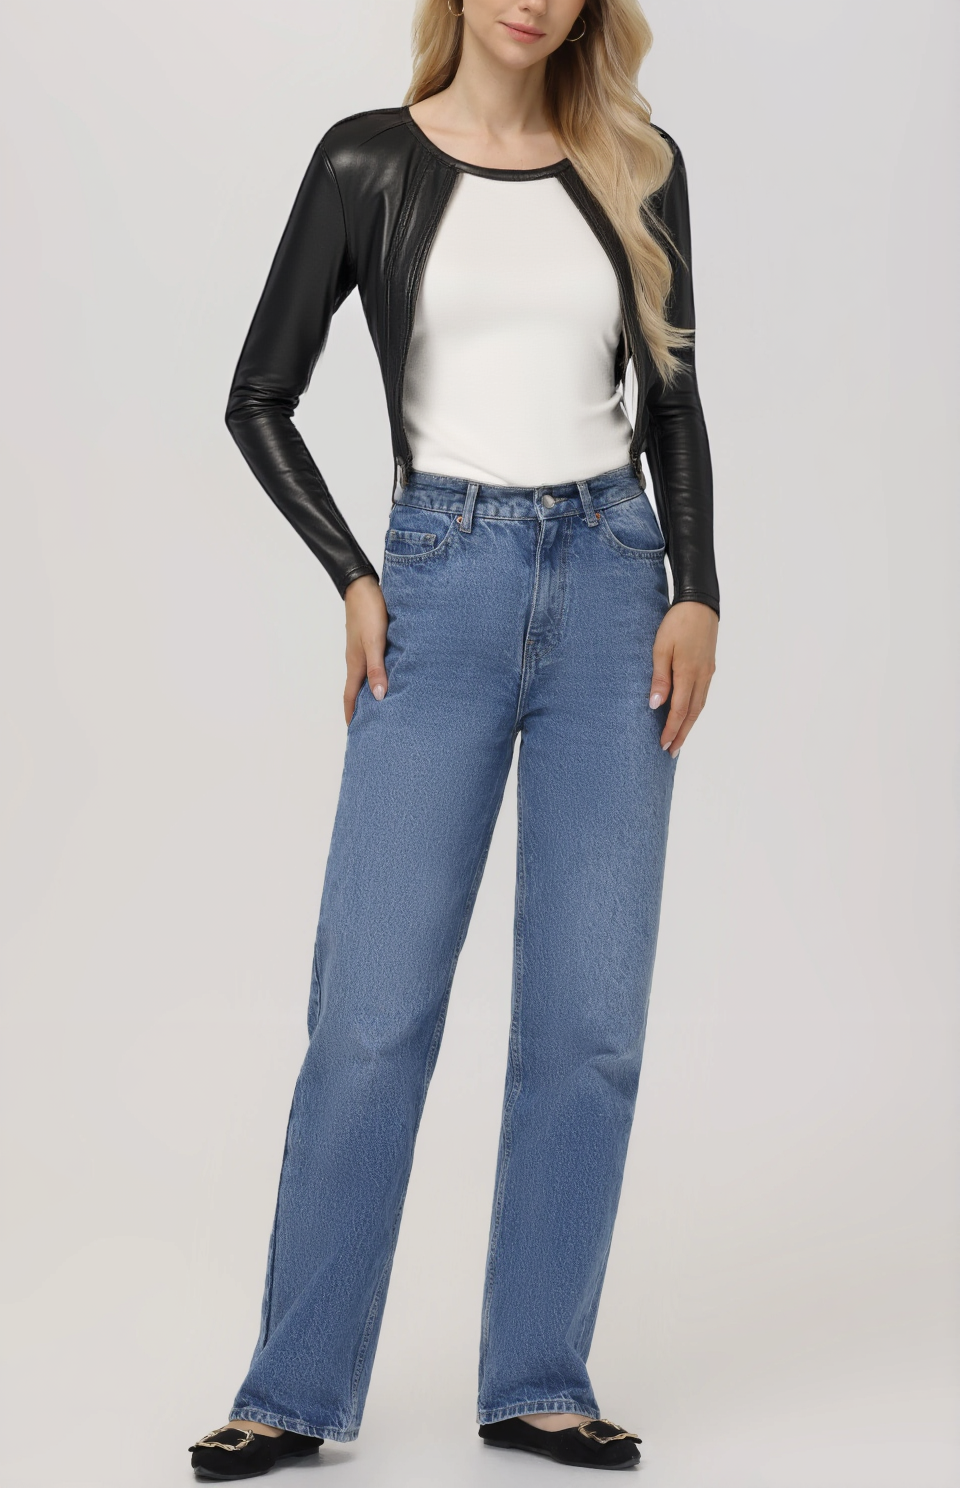
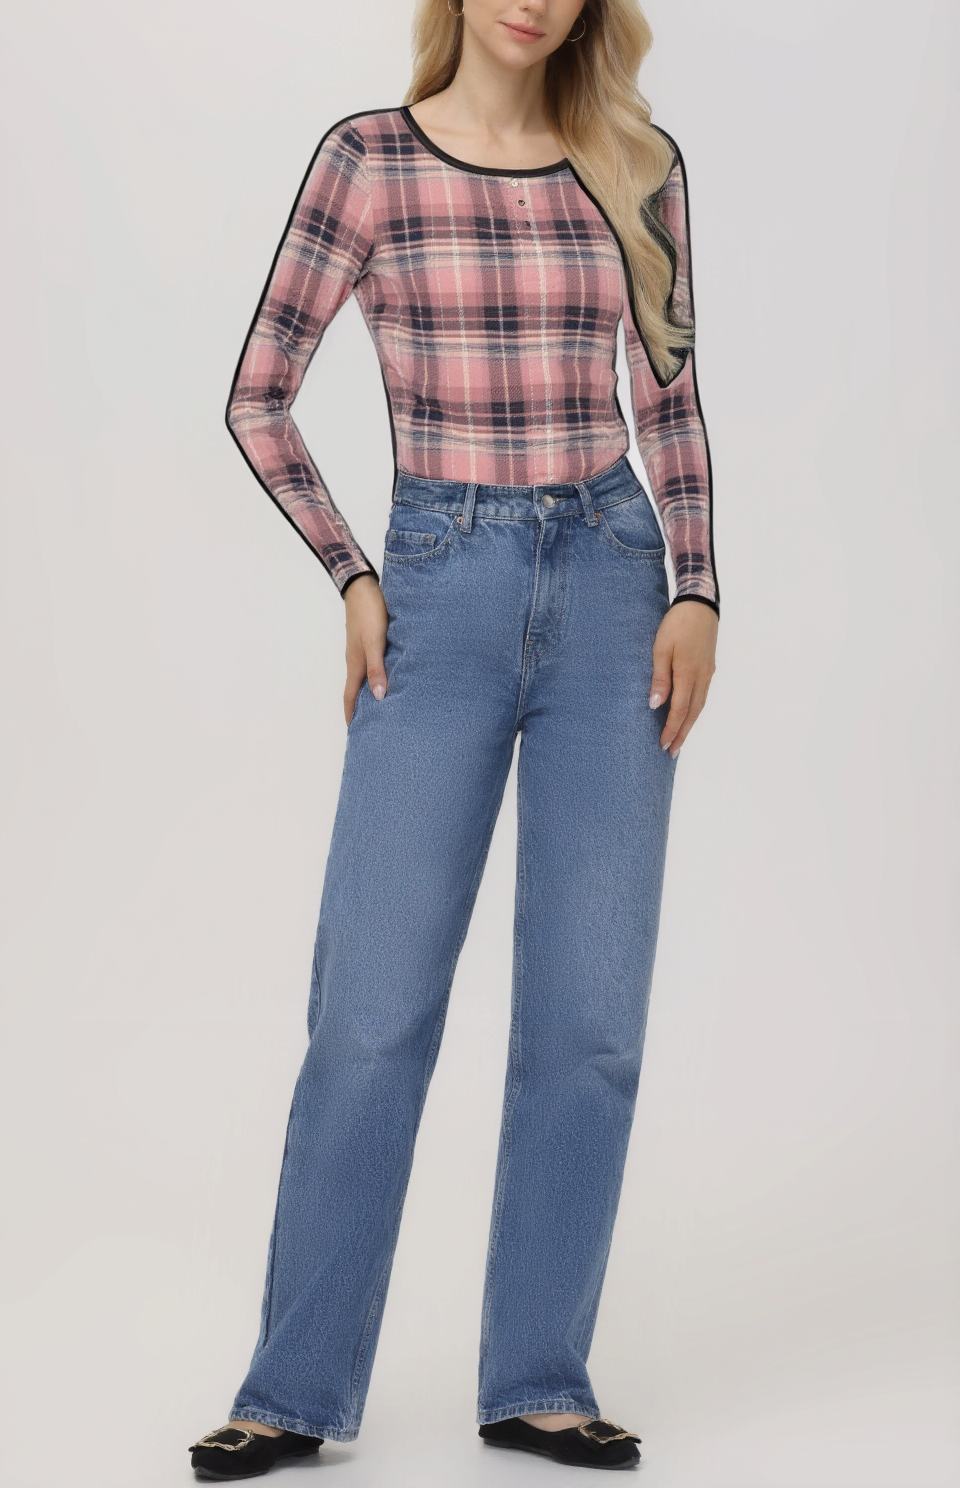
add flux fill model sample code

Changed region(s): [[0.2188, 0.0618, 0.75, 0.4328]]

diff --git a/diffusion_model/flux/run_flux_fill.py b/diffusion_model/flux/run_flux_fill.py
@@ -1,0 +1,87 @@
+'''
+Update diffusers to the newest version
+`pip install -U diffusers`
+
+This inpaint model could be the best so far. 
+Working well with bright color, but not dark color, if the source object color is black, need to hight light it.
+'''
+
+#%%
+import torch
+from diffusers import FluxFillPipeline, FluxTransformer2DModel
+from torchao.quantization import quantize_, int8_weight_only
+from diffusers.utils import load_image
+
+model_path = "/home/andrewzhu/storage_14t_5/ai_models_all/sd_hf_models/black-forest-labs/FLUX.1-Fill-dev_main"
+device = "cuda:0"
+
+#%%
+transformer = FluxTransformer2DModel.from_pretrained(
+    model_path
+    , subfolder = "transformer"
+    , torch_dtype = torch.bfloat16
+)
+quantize_(
+    transformer
+    , int8_weight_only() 
+    , device = device # quantize using GPU to accelerate the speed
+)
+
+#%%
+pipe = FluxFillPipeline.from_pretrained(
+    model_path
+    , transformer = transformer
+    , torch_dtype=torch.bfloat16
+)
+pipe.enable_model_cpu_offload()
+
+# #%%
+# image = load_image("https://huggingface.co/datasets/diffusers/diffusers-images-docs/resolve/main/cup.png")
+# display(image)
+# mask = load_image("https://huggingface.co/datasets/diffusers/diffusers-images-docs/resolve/main/cup_mask.png")
+# display(mask)
+# prompt = "a white paper cup"
+
+#%%
+# image_path  = '/home/andrewzhu/storage_1t_1/az_git_folder/az_samples/segmentations/sematic_seg/images/jeans.png'
+# mask_path   = '/home/andrewzhu/storage_1t_1/az_git_folder/az_samples/segmentations/sematic_seg/mask.png'
+# prompt      = """\
+# bright color suit with tie
+# """
+
+image_path  = '/home/andrewzhu/storage_1t_1/az_git_folder/az_samples/diffusion_model/flux/source_images/suit_w_bag.png'
+mask_path   = '/home/andrewzhu/storage_1t_1/az_git_folder/az_samples/diffusion_model/flux/source_images/suit_w_bag_mask.png'
+prompt      = """\
+
+"""
+
+# Set image path , mask path and prompt
+# image_path  = 'https://huggingface.co/alimama-creative/FLUX.1-dev-Controlnet-Inpainting-Alpha/resolve/main/images/bucket.png'
+# mask_path   = 'https://huggingface.co/alimama-creative/FLUX.1-dev-Controlnet-Inpainting-Alpha/resolve/main/images/bucket_mask.jpeg'
+# prompt      = 'a person wearing a white shoe, carrying a white bucket with text "FLUX" on it'
+
+# Load image and mask
+image = load_image(image_path)#.convert("RGB")#.resize(size)
+(w,h) = image.size
+display(image)
+print(w,h)
+mask = load_image(mask_path)#.convert("RGB")#.resize(size)
+display(mask)
+
+#%%
+image = pipe(
+    prompt                  = prompt
+    , image                 = image
+    , mask_image            = mask
+    , height                = h
+    , width                 = w
+    , guidance_scale        = 30 
+    , num_inference_steps   = 30
+    , max_sequence_length   = 512
+    , generator             = torch.Generator("cpu").manual_seed(4)
+).images[0]
+image
+
+#%%
+# output_image = image.resize((w,h))
+# output_image

diff --git a/diffusion_model/flux/flux_inpaint_alimama.py b/diffusion_model/flux/flux_inpaint_alimama.py
@@ -1,6 +1,6 @@
 '''
 use diffusers==0.30.2
-Try downgrade your diffusers==0.30.2 and transformers==4.42.0
+Try downgrade your diffusers==0.30.2 and transformers==4.42.0 (optional)
 
 Seems not very good so far, seems under trained. 
 '''
@@ -34,7 +34,6 @@ quantize_(
     , device = device
 )
 
-#%%
 pipe = FluxControlNetInpaintingPipeline.from_pretrained(
     checkpoint_model_path
     , controlnet    = controlnet
@@ -47,10 +46,14 @@ pipe.controlnet.to(torch.bfloat16)
 pipe.enable_model_cpu_offload()
 
 #%%
+# image_path     = "https://raw.githubusercontent.com/CompVis/latent-diffusion/main/data/inpainting_examples/overture-creations-5sI6fQgYIuo.png"
+# mask_path    = "https://raw.githubusercontent.com/CompVis/latent-diffusion/main/data/inpainting_examples/overture-creations-5sI6fQgYIuo_mask.png"
+# prompt      = "A pure white cat sitting on a bench"
+
 image_path  = '/home/andrewzhu/storage_1t_1/az_git_folder/az_samples/segmentations/sematic_seg/images/jeans.png'
 mask_path   = '/home/andrewzhu/storage_1t_1/az_git_folder/az_samples/segmentations/sematic_seg/mask.png'
 prompt      = """\
-A woman with blonde hair standing like a model. She is wearing leather jacket in white color.
+her upbody wear pink Plaid shirt
 """
 
 # Set image path , mask path and prompt
@@ -74,12 +77,12 @@ result = pipe(
     , width                         = size[0]
     , control_image                 = image
     , control_mask                  = mask
-    , num_inference_steps           = 20
-    , generator                     = torch.Generator(device="cuda").manual_seed(25)
-    , controlnet_conditioning_scale = 0.9
+    , num_inference_steps           = 25
+    , generator                     = torch.Generator(device="cuda").manual_seed(123)
+    , controlnet_conditioning_scale = 0.75
     , guidance_scale                = 3.5
     , negative_prompt               = ""
-    , true_guidance_scale           = 1.5#1.0 # default: 3.5 for alpha and 1.0 for beta
+    , true_guidance_scale           = 1.2 #1.0 # default: 3.5 for alpha and 1.0 for beta
 ).images[0]
 
 result.save('output_images/flux_inpaint.png')

diff --git a/segmentations/sematic_seg/semantic_seg.py b/segmentations/sematic_seg/semantic_seg.py
@@ -53,11 +53,15 @@ sam2_predictor = load_sam2_model(
 )
 
 #%% get boxes using dino 
-IMAGE_PATH          = "./images/jeans.png"
+import os
+IMAGE_PATH          = "/home/andrewzhu/storage_1t_1/az_git_folder/az_samples/diffusion_model/flux/source_images/suit_w_bag.png"
+IMAGE_FOLDER        = os.path.dirname(IMAGE_PATH)
+IMAGE_NAME          = os.path.basename(IMAGE_PATH)
+IMAGE_NAME_wo_ext,_   = os.path.splitext(IMAGE_NAME)
 # IMAGE_PATH          = "./images/one_truck.png"
 # IMAGE_PATH          = "/home/andrewzhu/storage_1t_1/az_git_folder/azcode/az_projects/model_tests/.model_test/image-2.png"
-TEXT_PROMPT         = """
-black shirt
+TEXT_PROMPT         = """\
+vest wearer inside of the jacket
 """
 image_source, image = dino_load_image(IMAGE_PATH)
 
@@ -83,11 +87,12 @@ xyxy_boxes = get_xyxy_boxes(boxes, image_source)
 print(xyxy_boxes)
 
 #%% get mask using detected boxes
+index = 0
 image           = load_image(IMAGE_PATH)
 display(image)
 sam2_predictor.set_image(image)
 
-input_box = np.array(xyxy_boxes[0])
+input_box = np.array(xyxy_boxes[index])
 
 masks, scores, _ = sam2_predictor.predict(
     point_coords    = None,
@@ -97,8 +102,9 @@ masks, scores, _ = sam2_predictor.predict(
 )
 show_masks(image, masks, scores, box_coords=input_box)
 
-pil_mask = get_mask_img(masks[0])
-pil_mask.save('mask.png')
+pil_mask = get_mask_img(masks[index])
+mask_path = os.path.join(IMAGE_FOLDER,f"{IMAGE_NAME_wo_ext}_mask.png")
+pil_mask.save(mask_path)
 pil_mask
 
 #%%

diff --git a/diffusion_model/flux/run_flux_8bit.py b/diffusion_model/flux/run_flux_8bit.py
@@ -4,7 +4,8 @@ from torchao.quantization import quantize_, int8_weight_only
 import torch
 
 #%%
-model_path = "/home/andrewzhu/storage_14t_5/ai_models_all/sd_hf_models/black-forest-labs/FLUX.1-dev_main"
+model_path  = "/home/andrewzhu/storage_14t_5/ai_models_all/sd_hf_models/black-forest-labs/FLUX.1-dev_main"
+device      = "cuda:0"
 
 # load transformer model and quantize to int8
 transformer = FluxTransformer2DModel.from_pretrained(

diff --git a/diffusion_model/sdxl/sdxl_instruct_pix2pix.py b/diffusion_model/sdxl/sdxl_instruct_pix2pix.py
@@ -1,0 +1,2 @@
+#%%
+...
